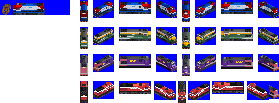
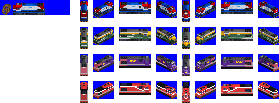
2022.8.7 누락분 업로드

Changed region(s): [[0.2867, 0.7864, 1.0, 1.0]]

diff --git a/docs/changelog.md b/docs/changelog.md
@@ -2,6 +2,16 @@
 -----
 * 한국형 표준전동차 추가 (롱시트, 크로스시트)
 * AUST 전동차 추가
+<<<<<<< Updated upstream
+=======
+* NRT2 신도색 (스프라이트 색 수정)
+* 관광열차 8500호대 템플릿 크기 수정
+* 관광열차 깜빡임 스프라이트로 인해 32bpp로 강제 적용
+* 관광열차 레이디버드 도색추가
+
+2022.8.5
+-----
+>>>>>>> Stashed changes
 * 에코레일 객차형 승객 수송 차량 추가
 * 에코레일 수화물차 추가
 * 발전차 추가
